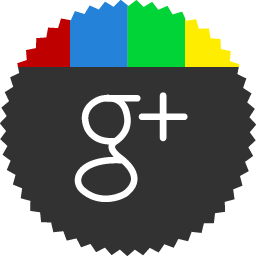
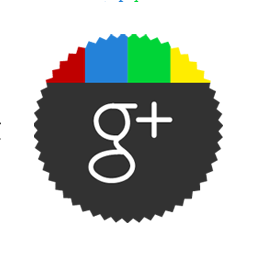
ver2.0 revise

diff --git a/index.html b/index.html
@@ -1,67 +1,70 @@
 <!DOCTYPE HTML PUBLIC "-//W3C//DTD HTML 4.01//EN" "http://www.w3.org/TR/html4/strict.dtd">
 <meta http-equiv="Content-Type" content="text/html; charset=utf-8">
 <head>
-    <title>Portfolio | Zhengxing Chen</title>
-    <link rel="stylesheet" href="default.css" type="text/css" media="screen" />
-    <link rel="stylesheet" href="nivo-slider.css" type="text/css" media="screen" />
-    <link rel="stylesheet" href="style.css" type="text/css" media="screen" />
+      <title>Portfolio | Zhengxing Chen</title>
+      <link rel="stylesheet" href="style.css" type="text/css" media="screen" />
 </head>
 
 <body>
 
-        <div id="motto" style="margin-top:20px;font-family:MistralWeb;font-size:2.6em;">
-            <h3 style="text-align:right; margin-top:10px;font-size:0.8em;";>Zhengxing Chen's Website&nbsp;&nbsp;</h3>
-        </div>
-   
-
-<ul class="dropdown">
-   <!-- menu --> 
-   <li class="title"><a href="index.html">Home</a></li>
-   <li class="title"><a href="project.html">Projects</a></li>
-   <li class="title"><a href="cv.pdf" target="_blank">CV</a>
-   </li>
-</ul>
-
-
-   <div id="intro" class="left"> 
-      <div id="personalinfo">
-         <div id="portrait"> </div>
-            <div id="eduinfo">
-               Mr. Zhengxing Chen</br>
-                +86 15210837200</br>
-                czxttkl@gmail.com
-               <hr align="right"/>
-               PhD Student, RA</br>
-               Computer Science</br>
-               Northeastern Univ</br>
-            </div>
+      <div id="motto">
+            <h3>Zhengxing Chen's Website&nbsp;&nbsp;</h3>
       </div>
-      <p> I have always <span id="dreamed">dreamed</span> of being a HCI designer and engineer to <span id="bulldoze">bulldoze</span> the barrier between humans and computers. During my undergraduate years I delved into multiple fields, such as computer science, informatics, psychology, photography, chinese calligraphy and music, which prepared me with abundant <span id="interdisciplinary">interdisciplinary</span> knowledge for my further study in HCI. As I always believe that brand <span id="inspiration">inspiration</span> comes from <span id="collaboration">collaboration</span>, I enjoy joining team-orientation programs to have more sparks of inspiration with people with the same interest and <span id="diverse">diverse</span> backgrounds.</p>
-   </div>
+
+      <!-- menu --> 
+      <ul class="dropdown">
+            <li class="title"><a href="index.html">Home</a></li>
+            <li class="title"><a href="project.html">Projects</a></li>
+            <li class="title"><a href="cv.pdf" target="_blank">CV</a></li>
+      </ul>
 
 
-        <div class="slider-wrapper theme-default" style="width:620px;height:400px;display:inline-block;">
-        <span style="font-size:15px;font-weight:bold;">Bulletin </span>
-        <hr>
+      <div id="intro" class="left"> 
+            <div id="personalinfo">
+                  <div id="portrait"> </div>
+                  <div id="eduinfo">
+                        Mr. Zhengxing Chen</br>
+                        +86 15210837200</br>
+                        czxttkl@gmail.com
+                        <hr align="right"/>
+                        PhD Student, RA</br>
+                        Computer Science</br>
+                        Northeastern Univ</br>
+                  </div>
+            </div>
+            <p> I have always <span id="dreamed">dreamed</span> of being a HCI designer and engineer to <span id="bulldoze">bulldoze</span> the barrier between humans and computers. During my undergraduate years I delved into multiple fields, such as computer science, informatics, psychology, photography, chinese calligraphy and music, which prepared me with abundant <span id="interdisciplinary">interdisciplinary</span> knowledge for my further study in HCI. As I always believe that brand <span id="inspiration">inspiration</span> comes from <span id="collaboration">collaboration</span>, I enjoy joining team-orientation programs to have more sparks of inspiration with people with the same interest and <span id="diverse">diverse</span> backgrounds.</p>
+      </div>
 
-        <div class="experience">
-            <h2>Aug 2013 - Present </h2>
-            
+
+<div class="slider-wrapper theme-default" style="width:620px;height:400px;display:inline-block;">
+      <span style="font-size:15px;font-weight:bold;">Bulletin </span>
+      <hr>
+
+      <div class="experience">
+            <h3>Aug 2013 - Present </h3>
+
             <img src="images/northeastern.png"> 
-            <p>In Feb 2013, I got admitted into the PhD program in Computer Science at Northeastern University, Boston. My future work will lie in the intersection areas of Computer Science and Health Informatics. Northeastern University, as well as the mHealth Lab I will be in, are vibrating and leading places in exloring interdisplinary area where I am determined to develop ways that could make life better and healthier by incorporating with excellent mates.
+            <p>In Feb 2013, I got admitted into the PhD program in Computer Science at Northeastern University, Boston. My future work will lie in the intersection areas of Computer Science and Health Informatics. Northeastern University, as well as the mHealth Lab I will be in, are vibrating and leading places in exloring interdisciplinary area where I am determined to develop ways that could make life better and healthier by incorporating with excellent mates.
             </p>
-        </div>
+      </div>
+
+      <h3 style="margin-bottom:5px;">Current Events: </h3>
+      <ul style="list-style:disc">
+            <li>Prepare for the incoming PhD 1st year sememster by reading much and coding much.</li>
+            <li>Packaging. I am planning to arrive in Boston at Aug 22.</li>
+            <li>Wind up the project of Mobile Internet Measurement: <a href="https://github.com/czxttkl/hugedata-runnerserver">https://github.com/czxttkl/hugedata-runnerserver</a></li>
+      </ul>
+      <br>
+      <br>
 
 
-        <span style="font-size:15px;">Follow me at: </span>
-        
-        
-        <a href="https://github.com/czxttkl" target="_blank" title="Github"><img class="snsicon" src="images/github.png"></a>
-        <a href="http://cn.linkedin.com/pub/zhengxing-chen/4b/746/179" target="_blank" title="LinkedIn"><img class="snsicon" src="images/linkedin.png"></a>
-        <a href="https://plus.google.com/101585096972876170752/posts" target="_blank" title="Google+"><img class="snsicon" src="images/google.png" style="width:50px;margin-top:23px;"></a>
-        <a href="https://www.facebook.com/czxttkl" target="_blank" title="Facebook"><img class="snsicon" src="images/facebook.png"></a>
+      <h3>Follow me at: </h3>
+      <a href="https://github.com/czxttkl" target="_blank" title="Github"><img class="snsicon" src="images/github.png"></a>
+      <a href="http://cn.linkedin.com/pub/zhengxing-chen/4b/746/179" target="_blank" title="LinkedIn"><img class="snsicon" src="images/linkedin.png"></a>
+      <a href="https://plus.google.com/101585096972876170752/posts" target="_blank" title="Google+"><img class="snsicon" src="images/googleplus.png"></a>
+      <a href="https://www.facebook.com/czxttkl" target="_blank" title="Facebook"><img class="snsicon" src="images/facebook.png"></a>
 
-  
+      
 
 
 
@@ -70,19 +73,15 @@
 
 
 
-        </div>
 
-        
-        
-        
+
+</div>
+
+
+
+
 <div id="footer"><br> Visit <a href="indexold.html">old version </a>. &nbsp;Contact me: <a href="https://mail.google.com/mail/?view=cm&amp;fs=1&amp;tf=1&amp;to=czxttkl@gmail.com" target="_blank">czxttkl@gmail.com</a></div>
-  
-    <script type="text/javascript" src="scripts/jquery-1.7.1.min.js"></script>
-    <script type="text/javascript" src="scripts/jquery.nivo.slider.js"></script>
-    <script type="text/javascript">
-    $(window).load(function() {
-        $('#slider').nivoSlider();
-    });
-    </script>
+
+<script type="text/javascript" src="scripts/jquery-1.7.1.min.js"></script>
 </body>
 </html>

diff --git a/project.html b/project.html
@@ -80,22 +80,20 @@ $("ul.dropdown li ul li:has(ul)").find("a:first").append(" &raquo; ");
 
 <body>
 <div id="header">
-<div id="logo"  style="position:relative;top:0px;left:0px;"><img src="images/logo.png"></div>
+<div id="logo"  style="position:relative;top:0px;left:0px;"><img style="height:80px;" src="images/logo.png"></div>
 </div>
 <ul class="dropdown">
    <!-- menu --> 
-   <li class="title"><a href="index.html">Home</a></li>
-   <li class="title"><a href="project.html">Projects</a></li>
-   <li class="title"><a href="cv.pdf" target="_blank">CV</a>
+   <li class="titlenew"><a href="cv.pdf" target="_blank">CV</a>
+   <li class="titlenew"><a href="project.html">Projects</a></li>
+   <li class="titlenew"><a href="index.html">Home</a></li>
+  
+   
 <!--      <ul class="sub_menu">
          <li><a href="project.html">Projects</a></li>
          <li><a href="others.html">Others</a></li>
       </ul>-->
-   </li>
-   <li class="social"><a href="https://www.facebook.com/czxttkl" target="_blank"><img src="images/facebook.png" width="26" height="26" alt="facebook" /></a> </li>
-   <li class="social"><a href="https://twitter.com/czxttkl" target="_blank"><img src="images/twitter.png" width="26" height="26" alt="twitter" /></a> </li>
-   <li class="social"><a href="http://www.linkedin.com/pub/zhengxing-chen/4b/746/179" target="_blank"><img src="images/linkedin.png" width="26" height="26" alt="linkedin" /></a></li>
-   <li class="social"> <a href="https://mail.google.com/mail/?view=cm&amp;fs=1&amp;tf=1&amp;to=czxttkl@gmail.com" target="_blank"><img src="images/email.png" width="26" height="26" alt="email" /></a></li>
+   
 </ul>
 <!-- close menu -->
 
@@ -234,6 +232,6 @@ that I can rely on it to perfect my platform.</p>
 </div>
 <!-- close gallery -->
 
-<div id="footer" style="text-align:left; padding-left:10px;"> <br />Contact me: <a href="https://mail.google.com/mail/?view=cm&amp;fs=1&amp;tf=1&amp;to=czxttkl@gmail.com" target="_blank">czxttkl@gmail.com</a></div>
+<div id="footer" style="text-align:left; padding-left:10px;">  <br> Visit <a href="projectold.html">old version </a>. &nbsp;Contact me: <a href="https://mail.google.com/mail/?view=cm&amp;fs=1&amp;tf=1&amp;to=czxttkl@gmail.com" target="_blank">czxttkl@gmail.com</a></div>
 </body>
 </html>

diff --git a/style.css b/style.css
@@ -20,11 +20,9 @@ table, caption, tbody, tfoot, thead, tr, th, td {
 	padding:0;
 	border:0;
 	outline:0;
-	font-weight:inherit;
 	font-style:inherit;
 	font-size:100%;
 	font-family:inherit;
-	vertical-align:text-top;
 }
 body {
 	line-height:1;
@@ -76,10 +74,7 @@ html { font-size: 100%; background: url(images/bg2.jpg) no-repeat;background-pos
 
 body {background-color:transparent; width: 1000px; margin: auto; font-family: Georgia, "Times New Roman", Times, serif; font-size: .875em; color: black;}
 
-#header {height: 160px; margin-top:30px;}
-
-
-
+#header { margin-top:30px;}
 
 #footer {clear: both; text-align: right; padding-right:10px; background-origin:border-box; background: url(images/seperator.png) repeat-x top; font-size: .8em; color: #a3a3a3;padding-bottom:20px;}
 
@@ -96,9 +91,23 @@ a:hover {
 }
 .slider-wrapper { 
 	width: 685px;
-	height:370px; 
+	height:600px; 
 	padding-left:30px;
 }
+
+#motto {
+	margin-top:20px;
+	font-family:
+	MistralWeb;
+	font-size:2.6em;
+}
+
+#motto h3 {
+	text-align:right; 
+	margin-top:10px;
+	font-size:0.8em;
+}
+
 
 
 
@@ -111,6 +120,7 @@ a:hover {
 	width:298px;
 	display:inline-block;
 }
+
 #personalinfo {
 	-webkit-box-orient:horizontal;
 	-moz-box-orient:horizontal;
@@ -119,16 +129,20 @@ a:hover {
 	width:100%;
 	height:160px;
 }
+
 #intro p {padding: 0;
 	font-size: 1em;
 	text-align:justify;
 	line-height:2em;
 	}
+
 #intro p span{
 font-size:24px;
 font-family:Tahoma, Geneva, sans-serif;
 color:orange;
+vertical-align: text-top;
 }
+
 #portrait {
 	width:136px;
 	float:left;
@@ -160,6 +174,7 @@ ul.dropdown                         { position: relative;
 									  
 ul.dropdown li.title                     { float: left; zoom: 1;}
 ul.dropdown li.social                    { float: right; zoom: 1;}
+ul.dropdown li.titlenew					 { float: right; zoom: 1; margin-left: 40px;}
 ul.dropdown li a                    { display: block; 
 	 								  color:#C30; }
 ul.dropdown li.title a {padding: 0px 20px;}
@@ -285,4 +300,16 @@ h2 {
 .snsicon {
 	width: 70px;
 	margin:15px;
+}
+
+.slider-wrapper h3 {
+	font-size:15px;
+}
+
+.slider-wrapper ul {
+	line-height: 2em;
+}
+
+.slider-wrapper ul li {
+	margin-left: 20px;
 }

diff --git a/projectold.html b/projectold.html
@@ -84,8 +84,8 @@ $("ul.dropdown li ul li:has(ul)").find("a:first").append(" &raquo; ");
 </div>
 <ul class="dropdown">
    <!-- menu --> 
-   <li class="title"><a href="index.html">Home</a></li>
-   <li class="title"><a href="project.html">Projects</a></li>
+   <li class="title"><a href="indexold.html">Home</a></li>
+   <li class="title"><a href="projectold.html">Projects</a></li>
    <li class="title"><a href="cv.pdf" target="_blank">CV</a>
 <!--      <ul class="sub_menu">
          <li><a href="project.html">Projects</a></li>
@@ -234,6 +234,6 @@ that I can rely on it to perfect my platform.</p>
 </div>
 <!-- close gallery -->
 
-<div id="footer" style="text-align:left; padding-left:10px;"> <br />Contact me: <a href="https://mail.google.com/mail/?view=cm&amp;fs=1&amp;tf=1&amp;to=czxttkl@gmail.com" target="_blank">czxttkl@gmail.com</a></div>
+<div id="footer" style="text-align:left; padding-left:10px;"> <br> Visit <a href="project.html">new version </a>. &nbsp;Contact me: <a href="https://mail.google.com/mail/?view=cm&amp;fs=1&amp;tf=1&amp;to=czxttkl@gmail.com" target="_blank">czxttkl@gmail.com</a></div>
 </body>
 </html>

diff --git a/indexold.html b/indexold.html
@@ -26,8 +26,8 @@
 </div>
 <ul class="dropdown">
    <!-- menu --> 
-   <li class="title"><a href="index.html">Home</a></li>
-   <li class="title"><a href="project.html">Projects</a></li>
+   <li class="title"><a href="indexold.html">Home</a></li>
+   <li class="title"><a href="projectold.html">Projects</a></li>
    <li class="title"><a href="cv.pdf" target="_blank">CV</a>
    </li>
 </ul>
@@ -69,7 +69,7 @@
         <h3 style="text-align:right; margin-top:10px;font-size:0.8em;";>-Albert Einstein&nbsp;&nbsp;</h3></div>
         
         
-<div id="footer"><br> Contact me: <a href="https://mail.google.com/mail/?view=cm&amp;fs=1&amp;tf=1&amp;to=czxttkl@gmail.com" target="_blank">czxttkl@gmail.com</a></div>
+<div id="footer"><br> Visit <a href="index.html">new version </a>. &nbsp;Contact me: <a href="https://mail.google.com/mail/?view=cm&amp;fs=1&amp;tf=1&amp;to=czxttkl@gmail.com" target="_blank">czxttkl@gmail.com</a></div>
   
     <script type="text/javascript" src="scripts/jquery-1.7.1.min.js"></script>
     <script type="text/javascript" src="scripts/jquery.nivo.slider.js"></script>
